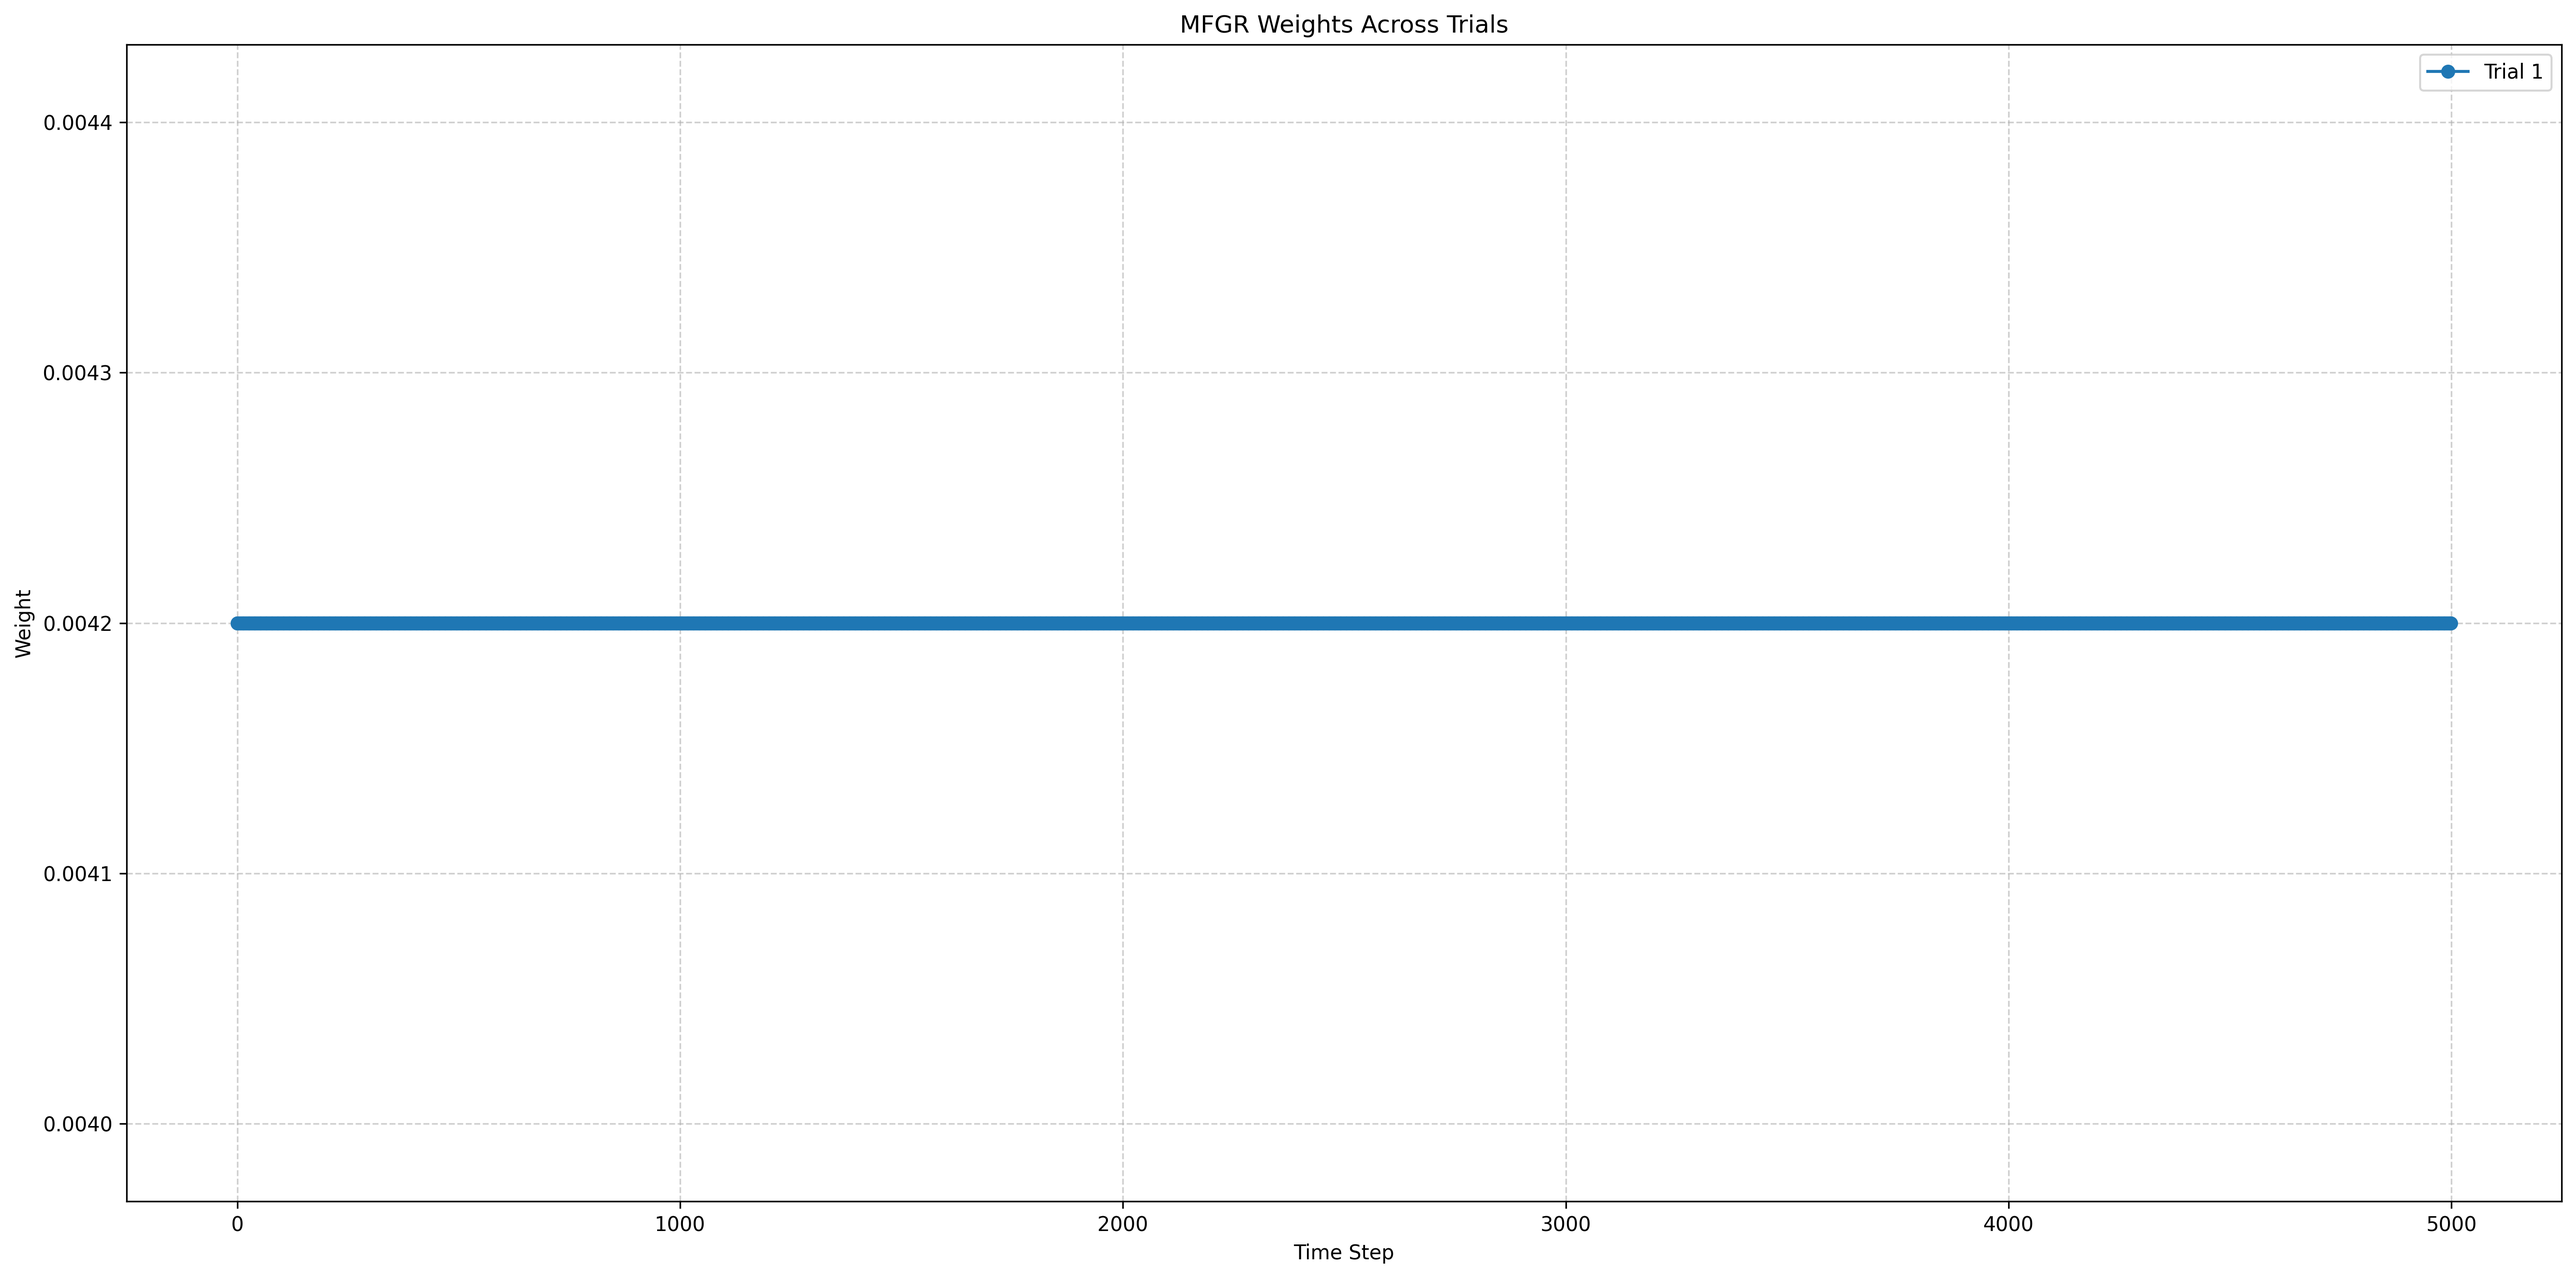
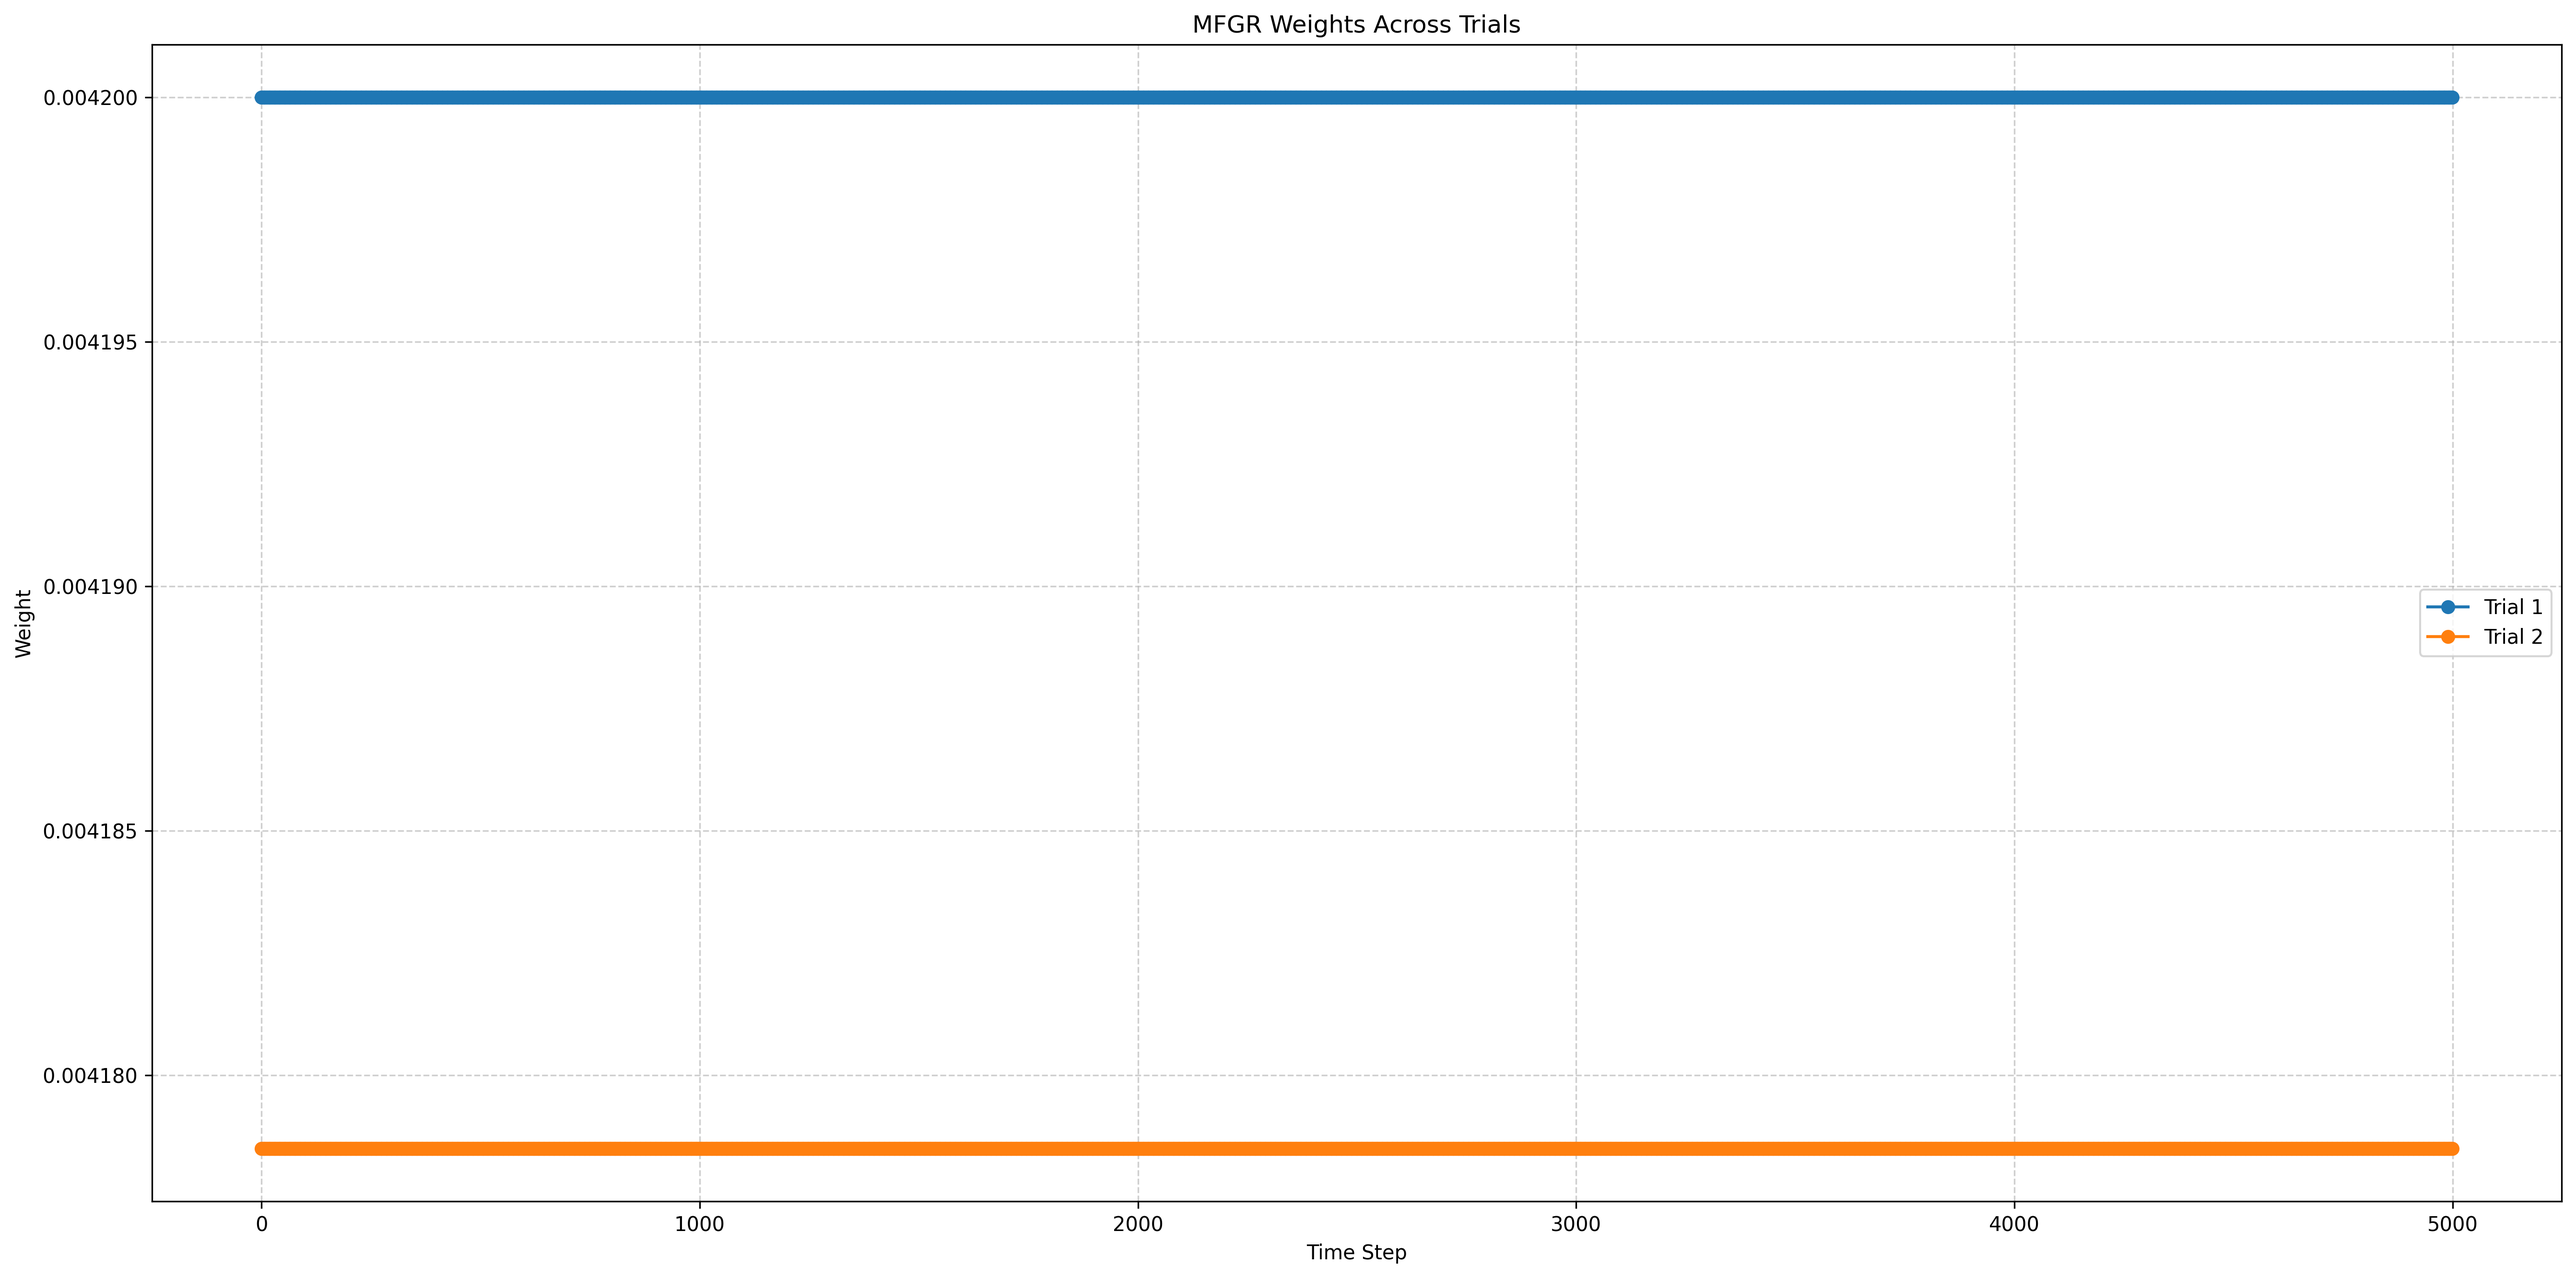
Fixed issue with 0 weight changes

diff --git a/run/control.py b/run/control.py
@@ -108,6 +108,8 @@ def run_session(recip, filepath_m, filepath_go, filepath_gr, filepath_w_grgo, fi
         # Run trial
         all_start = time.time()
         for t in range(0, numBins):
+            # print(t, ":", GO.get_grgoW())
+
             # timestep_start = time.time()
             MFact = MF.do_MF_dist(t, useCS)
             # MF_end = time.time()
@@ -159,8 +161,9 @@ def run_session(recip, filepath_m, filepath_go, filepath_gr, filepath_w_grgo, fi
 
             # GOGR_end = time.time()
             
+            # grab the weight array at each time step and averaging them for recording
             MFrasters[t, :] = MFact
-            GO_avg_gogoW[trial][t] = np.mean(GO.get_gogoW())
+            GO_avg_gogoW[trial][t] = np.mean(GO.get_gogoW()) 
             GO_avg_grgoW[trial][t] = np.mean(GO.get_grgoW())
             GO_avg_mfgoW[trial][t] = np.mean(GO.get_mfgoW())
             GR_avg_gogrW[trial][t] = np.mean(GR.get_gogrW())
@@ -184,7 +187,8 @@ def run_session(recip, filepath_m, filepath_go, filepath_gr, filepath_w_grgo, fi
         all_end = time.time()
         print(f"Trial: {trial+1}, Time:{(all_end - all_start):.3f}s")
         
-    print(GO_avg_mfgoW)
+    print(GO_avg_grgoW)
+
     # Save rasters
     if saveGORaster:
         os.makedirs(saveDir, exist_ok = True)
@@ -247,16 +251,16 @@ recip_list = [0.75]
 numBins =  5000 # 5000
 useCS = 1
 CSon, CSoff = 500, 3500
-numTrial = 10 # 150
+numTrial = 5 # 150
 MFGO_PLAST = 0
-GOGO_PLAST = 0
+GOGO_PLAST = 1
 GRGO_PLAST = 0
 MFGR_PLAST = 0
 GOGR_PLAST = 0
 
 # saving to hard drive
 saveDir = '/home/data/einez'
-expName = 'MFGoGr_mfgoplast_2_trials'
+expName = 'MFGoGr_gogoplast_5_trials'
 
 # Save Rasters
 saveGORaster = True
@@ -282,4 +286,4 @@ for i in range(len(recip_list)):
             span = int(conv/2) if conv > 5 else 6 
             filepath_m, filepath_go, filepath_gr, filepath_w_grgo, filepath_w_gogo, filepath_w_mfgo, filepath_w_gogr, filepath_w_mfgr = gen_filepaths(expName, conv, gogoW)
             recip = round(conv * recip_list[i])
-            run_session(recip, filepath_m, filepath_go, filepath_gr, filepath_w_grgo, filepath_w_gogo, filepath_w_mfgo, filepath_w_gogr, filepath_w_mfgr, conv, grgoW=0, gogrW=0, gogoW = 0)
+            run_session(recip, filepath_m, filepath_go, filepath_gr, filepath_w_grgo, filepath_w_gogo, filepath_w_mfgo, filepath_w_gogr, filepath_w_mfgr, conv, grgoW=0.0007, gogrW=0.015, gogoW = 0.0125)

diff --git a/Analyze/plot_weights.py b/Analyze/plot_weights.py
@@ -45,7 +45,7 @@ def plotWeights(weights, save_path = None, weights_type = 1):
         plt.savefig(save_path, dpi = 300, bbox_inches = 'tight')
         print(f"Plot saved to {save_path}")
 
-weights_data = np.load('/home/data/einez/MFGoGr_mfgrplast_10_trials_mfgrW.npy')
-plot_save_path = plot_save_path = "/home/aw39625/minisim/Results/Eventplot_MFGoGr_mfgrplast_10_trials_mfgrW.png"
+weights_data = np.load('/home/data/einez/MFGoGr_grgoplast_10_trials_grgoW.npy')
+plot_save_path = plot_save_path = "/home/aw39625/minisim/Results/Eventplot_MFGoGr_grgoplast_10_trials_grgoW.png"
 
-plotWeights(weights_data, save_path = plot_save_path, weights_type = 4)
+plotWeights(weights_data, save_path = plot_save_path, weights_type = 1)

diff --git a/Analyze/new_plot_raster.py b/Analyze/new_plot_raster.py
@@ -118,10 +118,10 @@ def downsample_granule_cells_only(raster, max_cells=10000):
     return raster[:, ::downsample_factor]
 
 # Load the raster data
-raster_data = np.load('/home/data/einez/MFGoGr_mfgoplast_2_trials_GOrasters.npy')
+raster_data = np.load('/home/data/einez/MFGoGr_grgoplast_10_trials_GOrasters.npy')
 print("Finished loading data")
 # Define save location
-plot_save_path = "/home/aw39625/minisim/Results/Eventplot_MFGoGr_mfgoplast_2_trials_GOrasters.png"
+plot_save_path = "/home/aw39625/minisim/Results/Eventplot_MFGoGr_grgoplast_10_trials_GOrasters.png"
 
 # Show and save
 showRasters(raster_data, save_path=plot_save_path, raster_type = 2)
